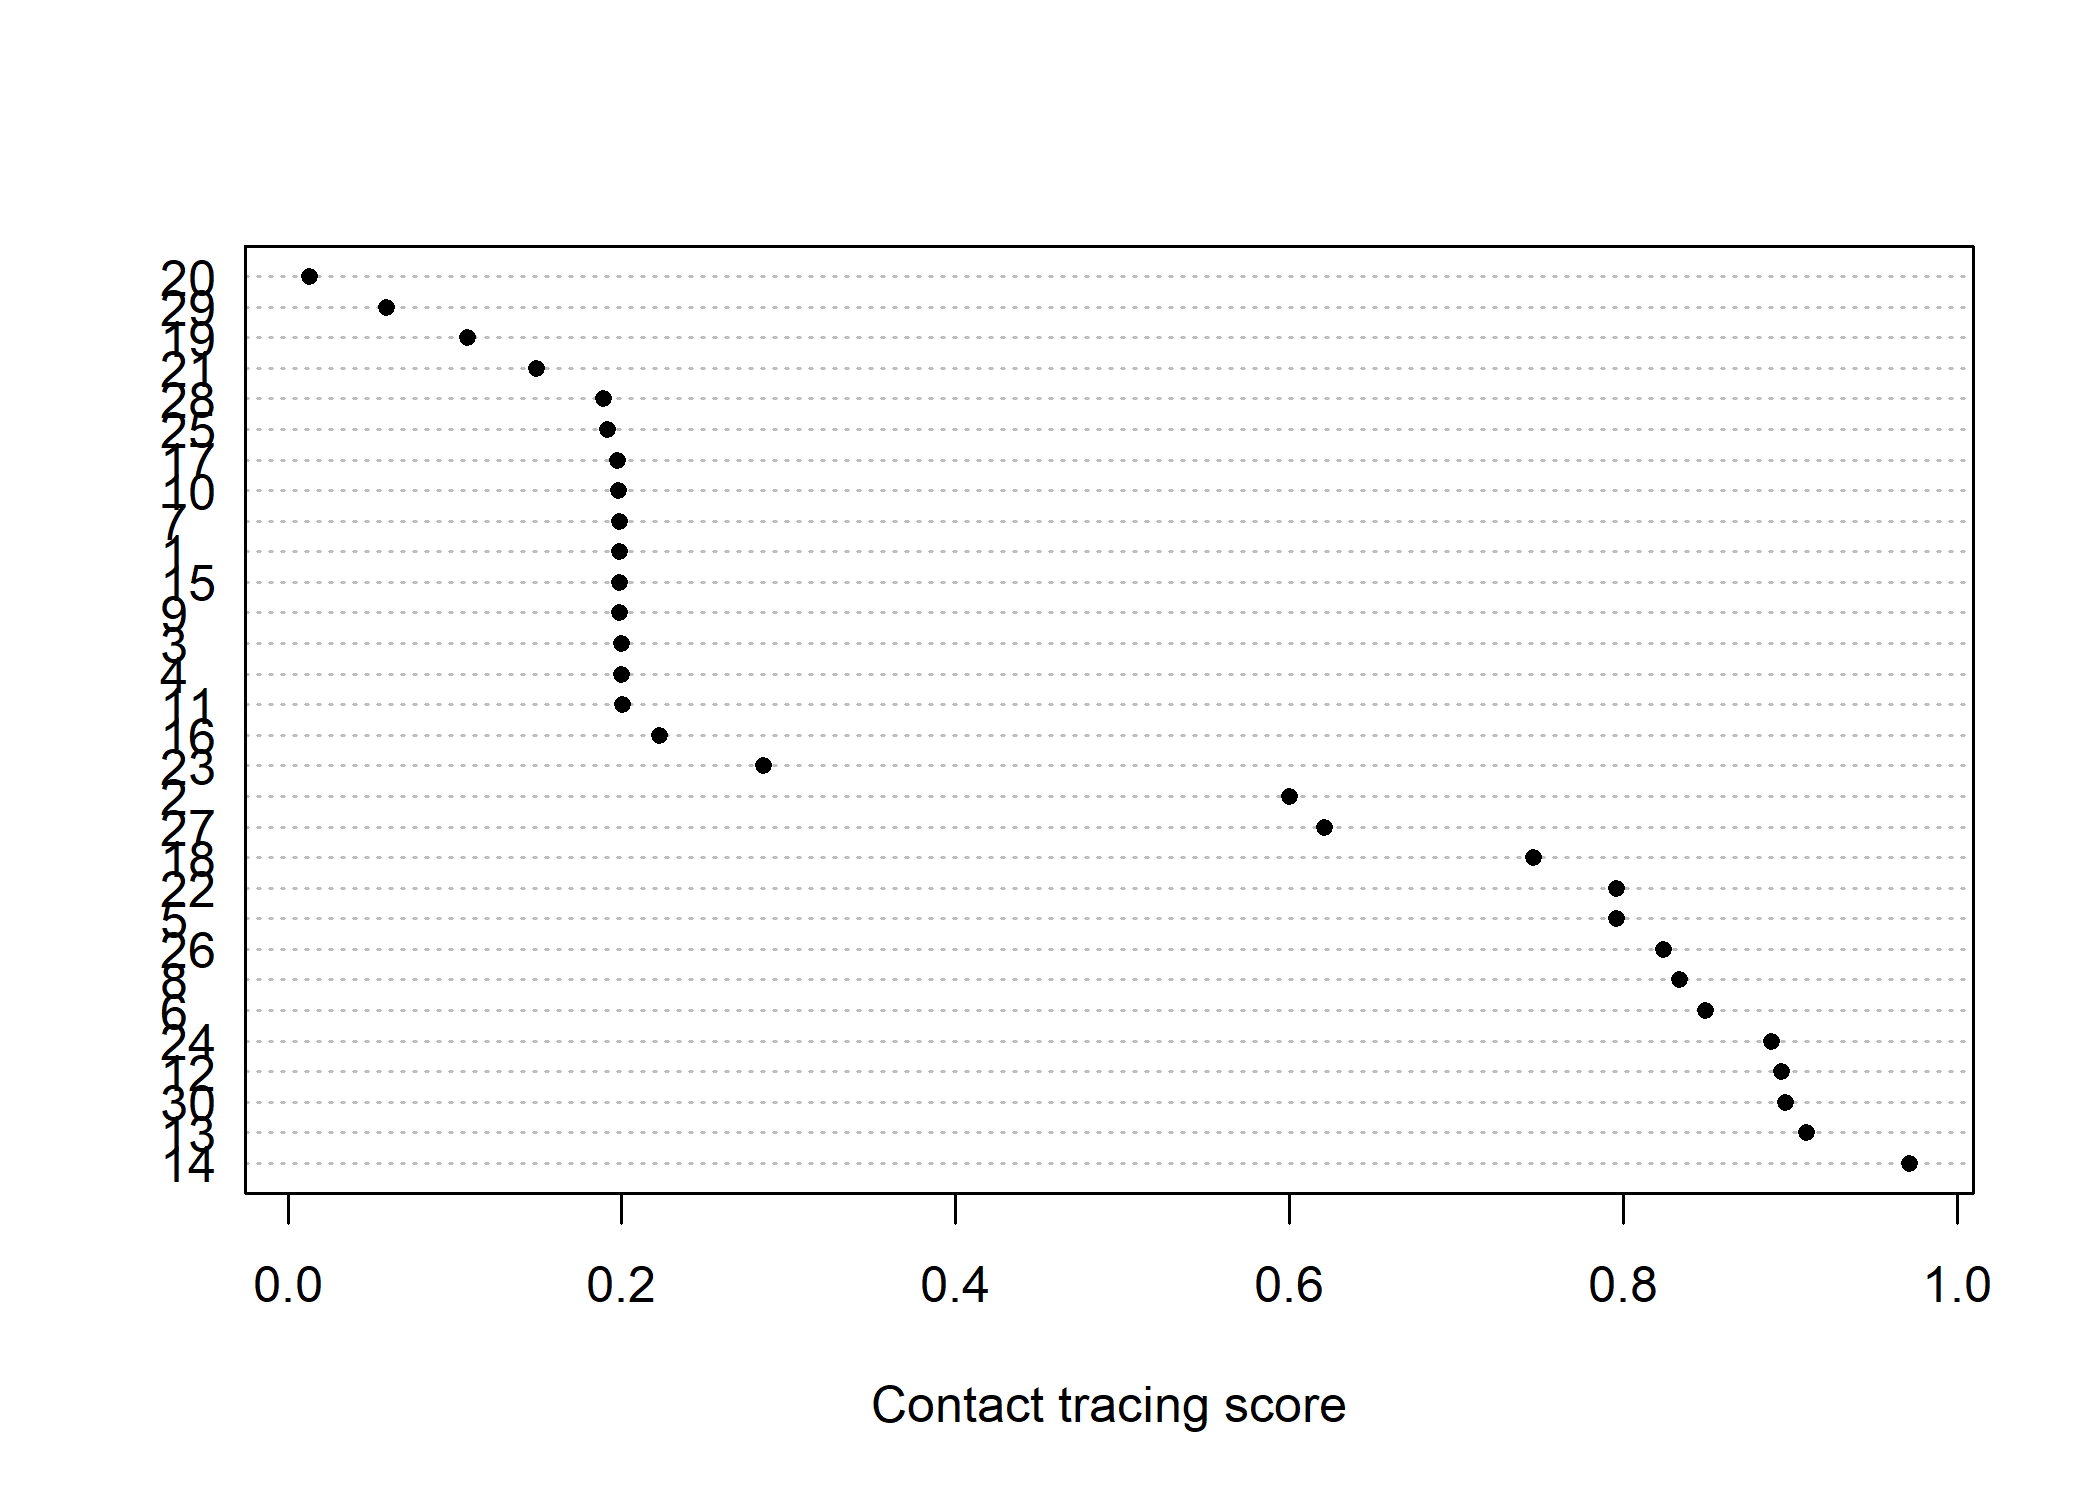
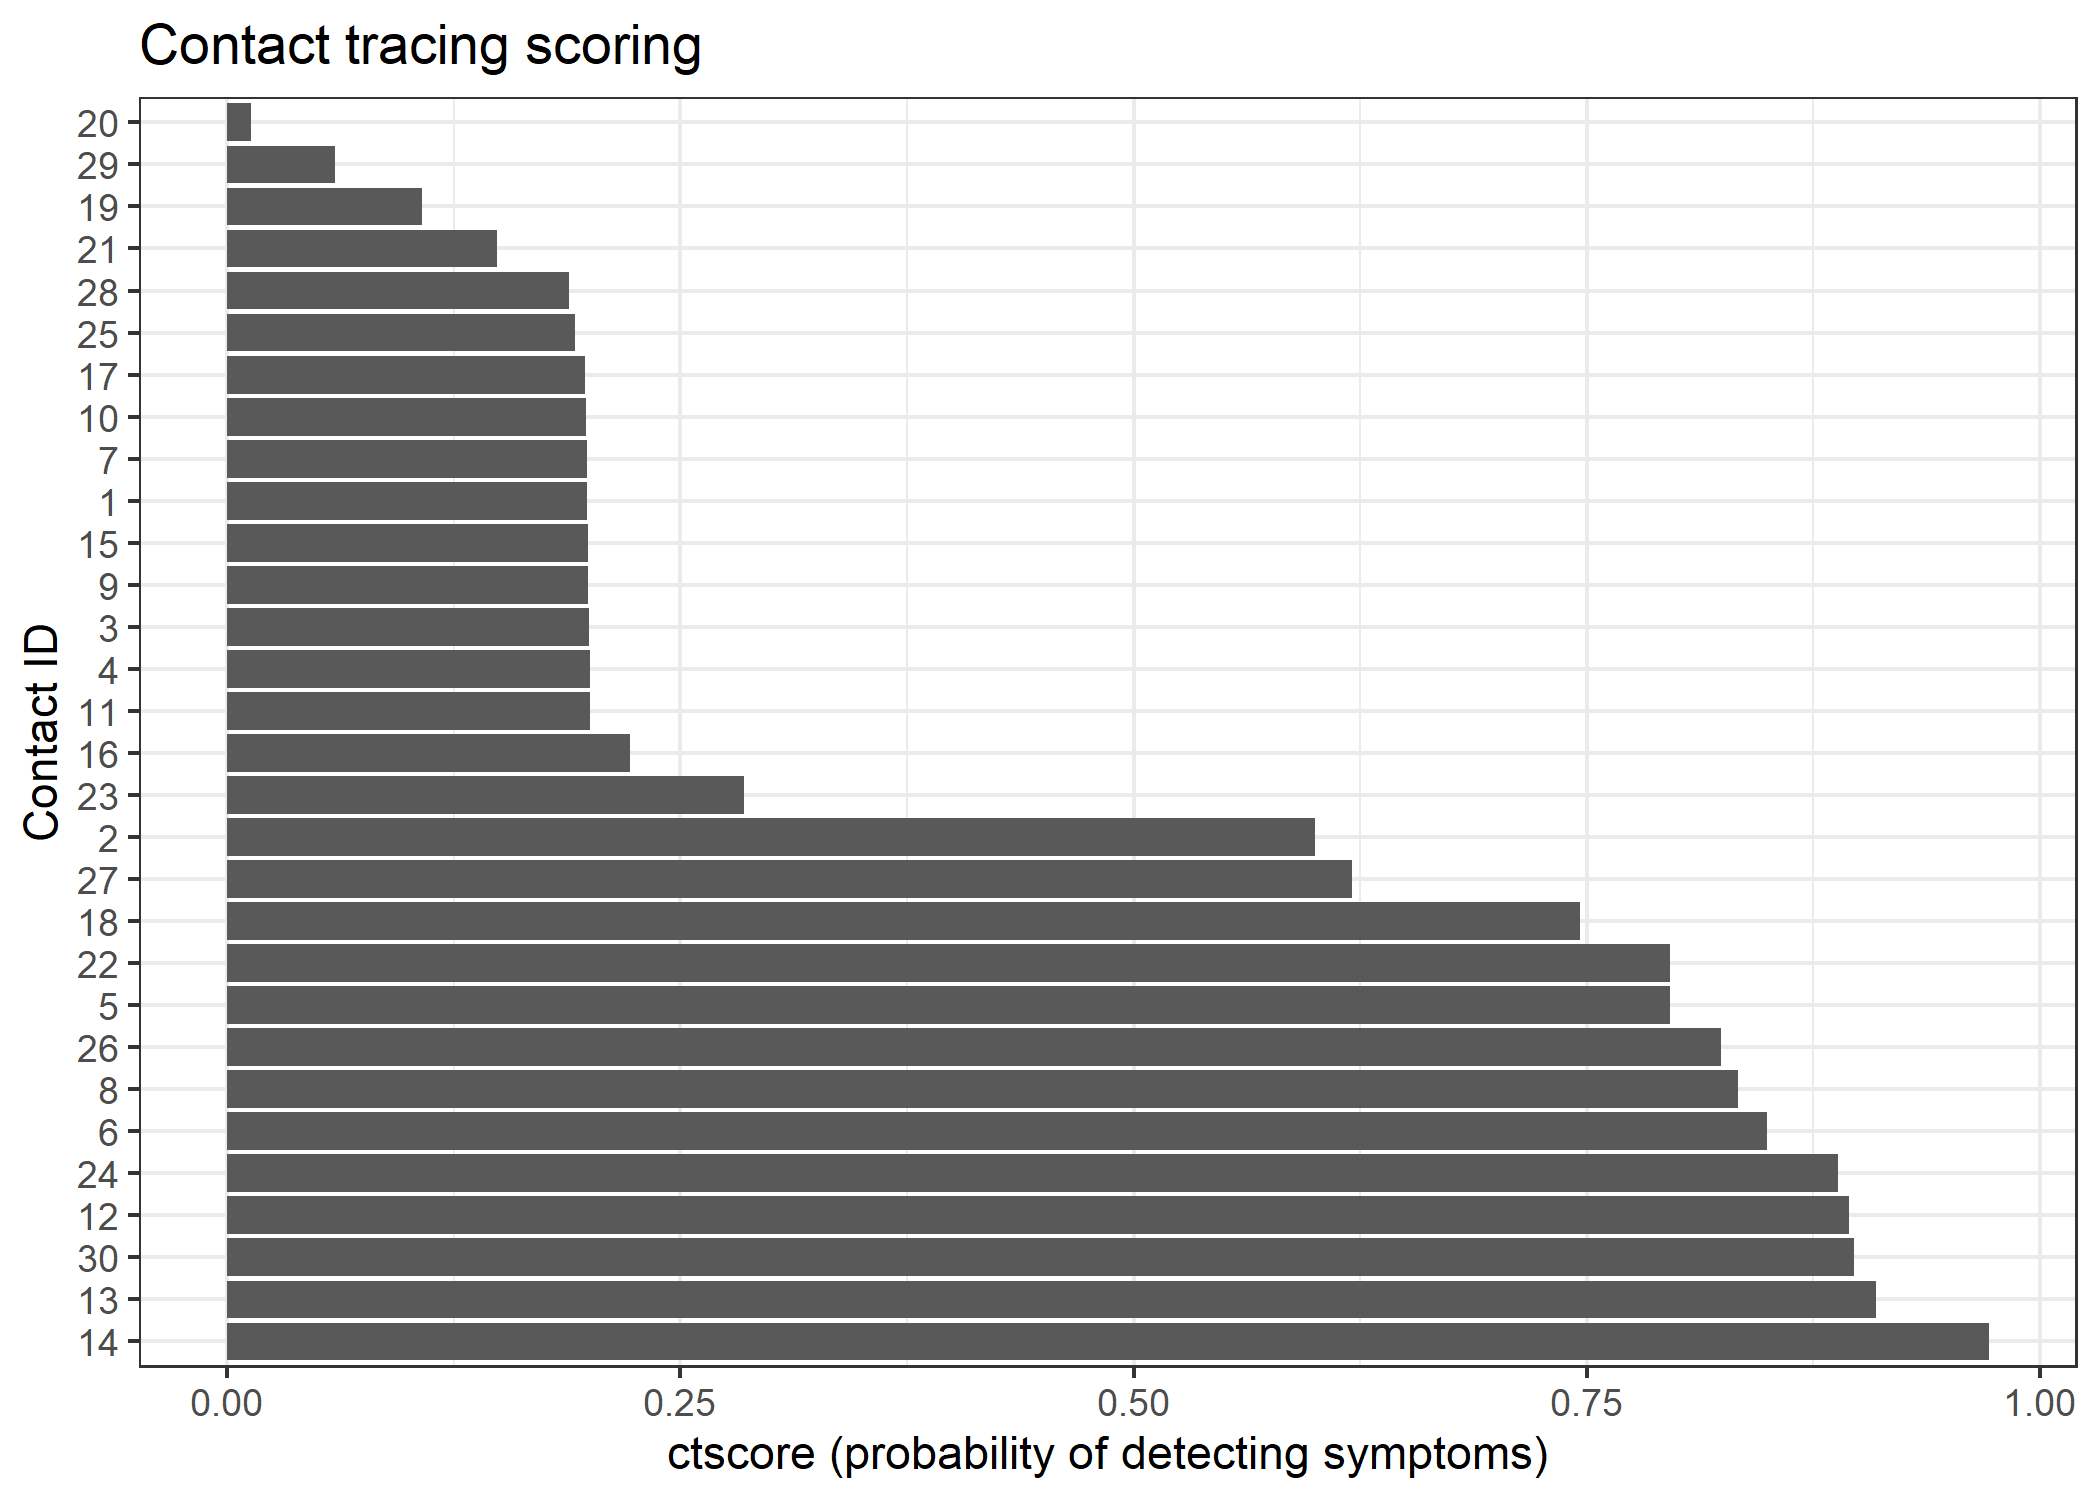
new figure

diff --git a/README.md b/README.md
@@ -37,6 +37,7 @@ library(dplyr)
 #> The following objects are masked from 'package:base':
 #> 
 #>     intersect, setdiff, setequal, union
+library(ggplot2)
 
 ## use the path to your own file in practice 
 path_to_file <- system.file("toy_ctdata.xlsx", package = "ctscore")
@@ -251,7 +252,15 @@ res
 #> # ℹ 20 more rows
 
 
-dotchart(res$score, xlab = "Contact tracing score", pch = 20)
+## some wrangling needed to keep the order of contacts in the plot
+res %>% 
+  mutate(contact_id = factor(contact_id, levels = unique(contact_id))) %>% 
+ggplot(aes(x = score, y = contact_id)) + 
+  geom_col() + 
+  theme_bw() + 
+  labs(x = "ctscore (probability of detecting symptoms)", 
+       y = "Contact ID", 
+       title = "Contact tracing scoring")
 ```
 
 <img src="man/figures/README-unnamed-chunk-8-1.png" alt="" width="100%" />